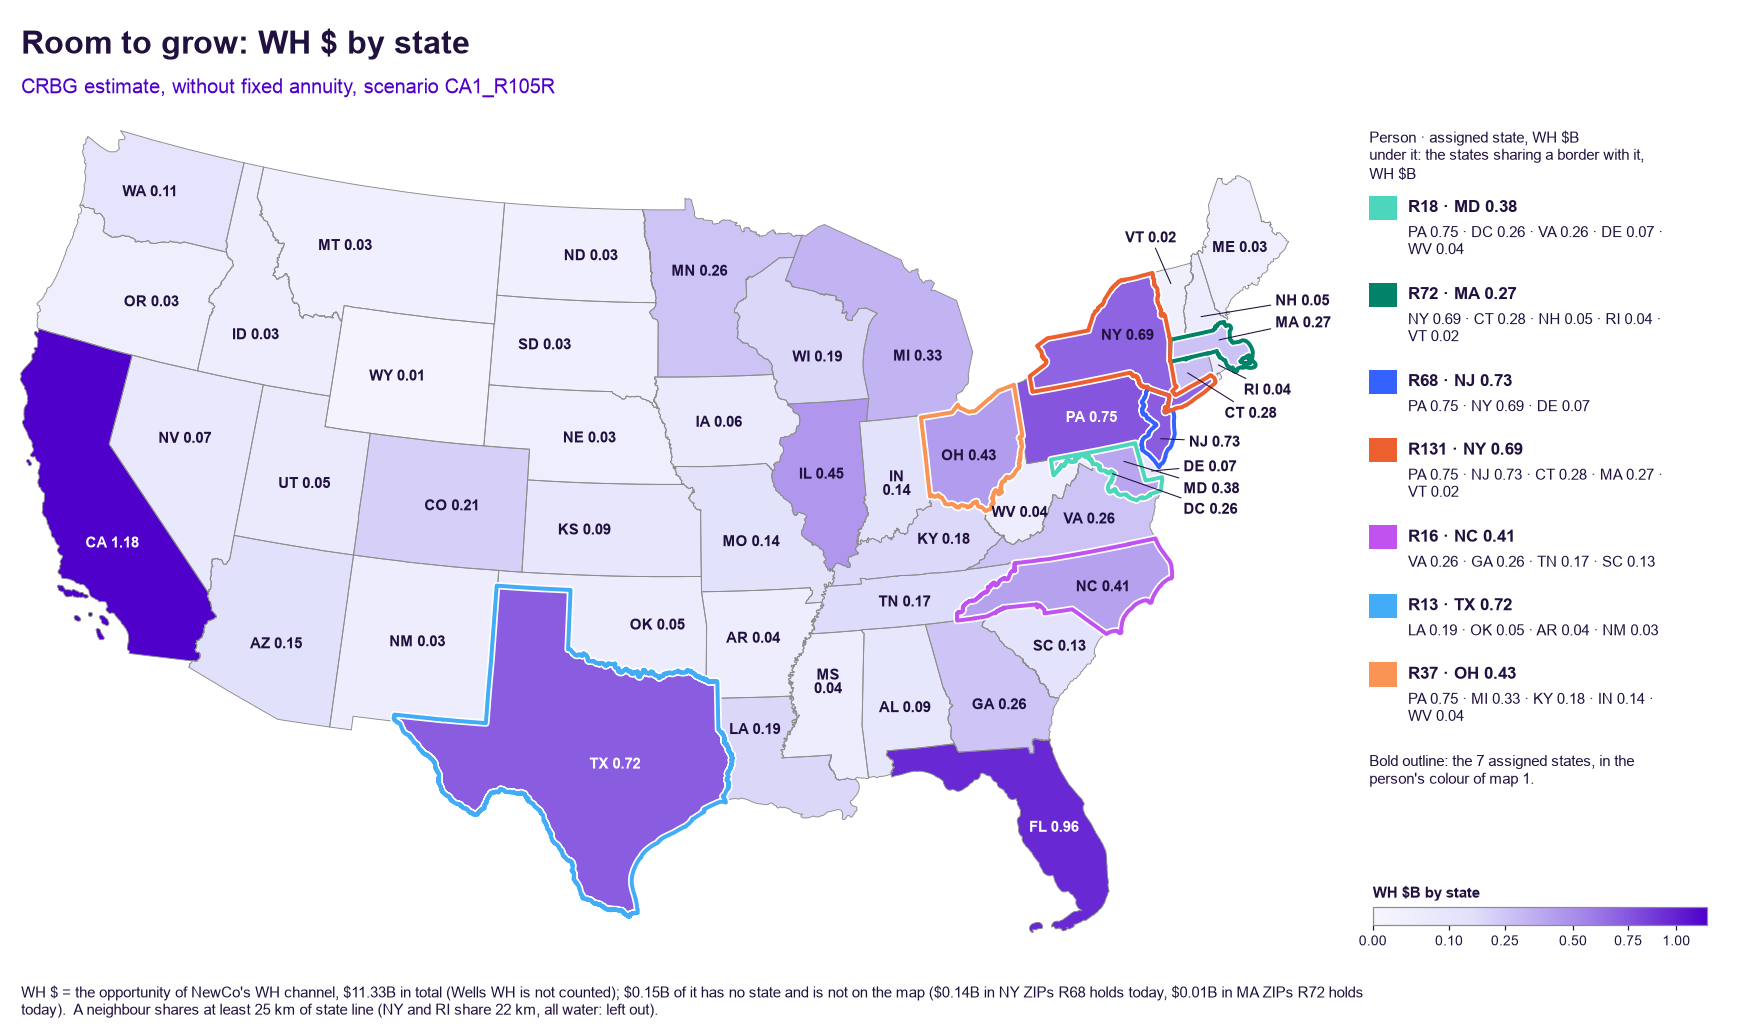
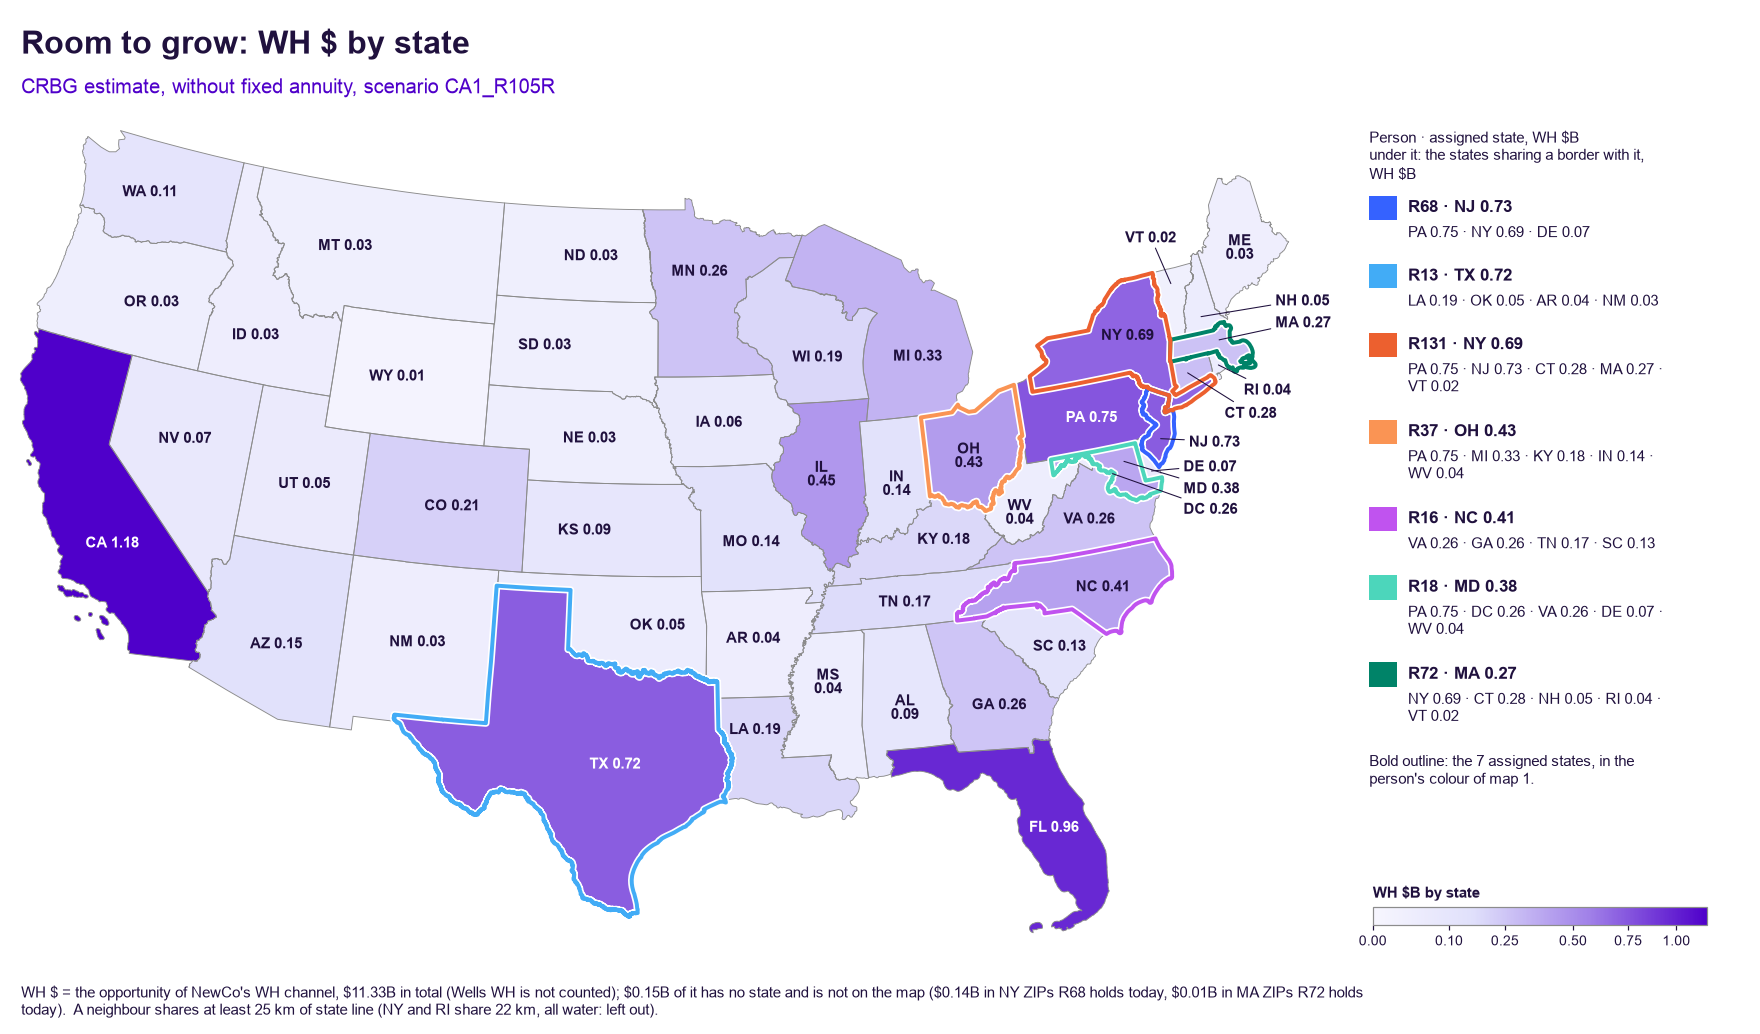
WH maps: today, room to grow, whole-state sketch, the Northeast (2026-11-24 run)
tools/maps/wh_maps.py draws the four PNGs from the owner's run without FIXED
(scenario CA1_R105R, CRBG estimate, WH $ = gap_cell NEW_DIST WH), keys only.
docs/RESULTS.md: the dated entry with the figures' numbers.

Agent: designer (claude-fable-5-2)

diff --git a/tools/maps/wh_maps.py b/tools/maps/wh_maps.py
@@ -48,17 +48,18 @@ GROUPS = [("R18", "MD DC DE VA"), ("R16", "NC SC GA TN"), ("R37", "OH IN KY MI W
 NEW = {"new A": "#BDBDBD", "new B": "#EBEBEB", "new C": "#A6A6A6", "new D": "#D2D2D2"}
 DPI = 110                                        # 16 in wide: 1760 px
 BOX = (-2.41e6, 0.20e6, 2.50e6, 3.22e6)          # CONUS, with room in the Atlantic for the small states' labels
-NE_BOX = (1.10e6, 1.88e6, 2.36e6, 3.04e6)        # NJ NY PA and New England
+NE_BOX = (1.17e6, 1.88e6, 2.36e6, 3.04e6)        # NJ NY PA and New England
 NYC_BOX = (1.795e6, 2.150e6, 1.880e6, 2.218e6)
 # hand-set label places, EPSG:5070 metres: (the label's centre, the point its leader ends at or None)
 AT1 = {"R68": ((1.60e6, 2.15e6), None), "R13": ((-0.25e6, 1.28e6), None), "R131": ((2.15e6, 2.08e6), (1.93e6, 2.21e6)),
        "R37": ((1.08e6, 2.00e6), None), "R16": ((1.47e6, 1.52e6), None), "R18": ((2.03e6, 1.79e6), (1.68e6, 1.94e6)),
        "R72": ((2.07e6, 2.80e6), None)}
-AT3 = {"R18": ((2.06e6, 1.76e6), (1.56e6, 1.77e6)), "R16": ((1.25e6, 1.39e6), None), "R37": ((0.98e6, 1.96e6), None),
-       "R13": ((-0.25e6, 1.05e6), None), "R68 · R131 · R72": ((1.62e6, 2.37e6), None), "new A": ((0.78e6, 1.03e6), None),
+AT3 = {"R18": ((2.06e6, 1.76e6), (1.60e6, 1.80e6)), "R16": ((1.25e6, 1.39e6), None), "R37": ((0.95e6, 2.16e6), None),
+       "R13": ((-0.25e6, 1.05e6), None), "R68 · R131 · R72": ((1.52e6, 2.84e6), (1.60e6, 2.42e6)), "new A": ((0.78e6, 1.03e6), None),
        "new B": ((0.02e6, 2.15e6), None), "new C": ((-2.03e6, 1.80e6), None), "new D": ((-1.30e6, 2.22e6), None)}
 AT4 = {"R68": ((1.62e6, 2.13e6), None), "R131": ((2.08e6, 2.11e6), (1.93e6, 2.215e6)), "R72": ((2.09e6, 2.78e6), None),
-       "R18": ((1.50e6, 1.93e6), None), "R37": ((1.19e6, 2.08e6), None)}
+       "R18": ((1.50e6, 1.93e6), None), "R37": ((1.235e6, 2.05e6), None)}
+AT_NYC = {"R68": ("Manhattan", (1.810e6, 2.207e6), (1.8275e6, 2.192e6)), "R131": ("Long Island", (1.862e6, 2.193e6), None)}   # the inset
 OFF2 = {"VT": (1.76e6, 2.79e6, "center"), "NH": (2.215e6, 2.56e6, "left"), "MA": (2.215e6, 2.48e6, "left"),
         "RI": (2.10e6, 2.235e6, "left"), "CT": (2.03e6, 2.15e6, "left"), "NJ": (1.90e6, 2.045e6, "left"),
         "DE": (1.88e6, 1.955e6, "left"), "MD": (1.88e6, 1.875e6, "left"), "DC": (1.88e6, 1.80e6, "left")}   # map 2: set off the state
@@ -67,6 +68,11 @@ CODE_NEAR = [(dx, dy, "center", "center") for dx, dy in ((0, 0), (0, -13), (0, 1
 
 def b(usd):
     return f"{usd / 1e9:.2f}"
+
+
+def dots(items, width):
+    """The items joined by ' · ' and wrapped to `width`, never inside an item."""
+    return textwrap.fill(" · ".join(i.replace(" ", "\u00a0") for i in items), width)
 
 
 def read(data):
@@ -157,8 +163,9 @@ def bold(ax, g, colour):
 
 
 def codes(ax, geo, avoid=()):
-    """Every state's code at its label point, moved off `avoid` and off each other; a crowded-out one is set anyway."""
-    items = [(p.x, p.y, s) for s, p in sorted(geo.state_pt.items())]
+    """Every state's code at its label point, moved off `avoid` and off each other (the largest states first, so the small ones
+    move); a crowded-out one is set anyway."""
+    items = [(geo.state_pt[s].x, geo.state_pt[s].y, s) for s in sorted(geo.states, key=lambda s: -geo.states[s].area)]
     style = dict(color=DARK, alpha=0.75, fontweight="bold")
     done = {t.get_text() for t in look.place_labels(ax, items, fs=9, avoid=avoid, marker=False, near=CODE_NEAR, leader=[], **style)}
     for x, y, s in items:
@@ -222,9 +229,9 @@ def today_label(d, p):
 
 
 def by_state(d, p, zips=False):
-    """'PA 0.55 · NY 0.38 · NJ 0.33': the person's $ today by state held, largest first."""
+    """['PA 0.54', 'NY 0.38', 'NJ 0.33']: the person's $ today by state held, largest first."""
     rows = sorted(d.today[p].items(), key=lambda kv: -d.sum(kv[1]))
-    return " · ".join(f"{s} {len(zs):,} ZIPs ${b(d.sum(zs))}B" if zips else f"{s} {b(d.sum(zs))}" for s, zs in rows)
+    return [f"{s} {len(zs):,} ZIPs ${b(d.sum(zs))}B" if zips else f"{s} {b(d.sum(zs))}" for s, zs in rows]
 
 
 def overlap_note(d):
@@ -263,7 +270,7 @@ def map_today(geo, d, out):
     codes(ax, geo, labels)
     y = note(fig, 0.875, "Key · WH $ today · preliminary-assignment state\nunder it: the $B today by state held")
     for p in COLOUR:
-        y = key(fig, y - 0.008, [COLOUR[p]], today_label(d, p), textwrap.fill(by_state(d, p), 40))
+        y = key(fig, y - 0.008, [COLOUR[p]], today_label(d, p), dots(by_state(d, p), 40))
     y = note(fig, y, "Bold outline: the person's preliminary-assignment state, in their colour.  White: every other ZIP.")
     note(fig, y, overlap_note(d))
     foot(fig, WH_NOTE.format(b(d.total)) + no_shape_note(geo, d, COLOUR))
@@ -287,13 +294,14 @@ def map_room(geo, d, out):
                         arrowprops=dict(arrowstyle="-", color=DARK, linewidth=0.7, shrinkA=1, shrinkB=0), **style)
         else:
             dark = float(np.dot(shade[s][:3], (0.2126, 0.7152, 0.0722))) < 0.45
-            ax.text(pt.x, pt.y, f"{s} {v}" if g.bounds[2] - g.bounds[0] > 3.3e5 else f"{s}\n{v}", ha="center",
+            ax.text(pt.x, pt.y, f"{s} {v}" if g.bounds[2] - g.bounds[0] > 4e5 else f"{s}\n{v}", ha="center",
                     color="white" if dark else DARK, **style)
     y = note(fig, 0.875, "Person · assigned state, WH $B\nunder it: the states sharing a border with it, WH $B")
-    for p, s in d.assigned.items():
+    for p in COLOUR:
+        s = d.assigned[p]
         near = sorted(neighbours(geo, s), key=lambda o: -d.state[o])
         y = key(fig, y - 0.008, [COLOUR[p]], f"{p} · {s} {b(d.state[s])}",
-                textwrap.fill(" · ".join(f"{o} {b(d.state[o])}" for o in near), 40))
+                dots([f"{o} {b(d.state[o])}" for o in near], 40))
     note(fig, y, "Bold outline: the 7 assigned states, in the person's colour of map 1.")
     cax = fig.add_axes((0.78, 0.105, 0.19, 0.018))
     bar = fig.colorbar(ScalarMappable(norm, RAMP), cax=cax, orientation="horizontal", ticks=[0, 0.1, 0.25, 0.5, 0.75, 1.0])
@@ -318,7 +326,7 @@ def map_sketch(geo, d, out):
         draw(ax, [g], facecolor="none", edgecolor=DARK, linewidth=1.9, zorder=4, joinstyle="round")
         text = (f"{name}: ${b(usd[name])}B,\nabout ${b(usd[name] / len(people))}B each" if len(people) > 1 else f"{name} · ${b(usd[name])}B")
         labels.append(callout(ax, text, *AT3[name]))
-        rows.append((cols, f"{name} · ${b(usd[name])}B", textwrap.fill(" · ".join(f"{s} {b(d.state[s])}" for s in states), 40)))
+        rows.append((cols, f"{name} · ${b(usd[name])}B", dots([f"{s} {b(d.state[s])}" for s in states], 40)))
     state_lines(ax, geo)
     codes(ax, geo, labels)
     y = note(fig, 0.875, "Group · WH $B, under it its states' WH $B\nstriped: shared by the three; grey: a new territory")
@@ -334,25 +342,32 @@ def map_sketch(geo, d, out):
 
 def map_northeast(geo, d, out):
     trio = ("R68", "R131", "R72")
-    fig, ax = page("WH today in the Northeast: where R68, R131 and R72 hold WH territory", NE_BOX, (16, 11), (0.004, 0.05, 0.655, 0.835))
+    fig, ax = page("WH today in the Northeast: where R68, R131 and R72 hold WH territory", NE_BOX, (16, 11), (0.004, 0.06, 0.61, 0.825))
     territories(ax, geo, d, edge="white")
     labels = [callout(ax, f"{p}\n${b(d.sum(d.zips[p]))}B", *AT4[p], colour=COLOUR[p], fs=12.5) for p in AT4]
     codes(ax, geo, labels)
     x0, y0, x1, y1 = NYC_BOX
     ax.add_patch(Rectangle((x0, y0), x1 - x0, y1 - y0, fill=False, edgecolor=DARK, linewidth=1.3, zorder=8))
-    x = 0.672
-    y = note(fig, 0.875, "Key · WH $ today · preliminary-assignment state\nunder it: the ZIPs and $ today by state held", x, 70)
+    x = 0.625
+    y = note(fig, 0.875, "Key · WH $ today · preliminary-assignment state\nunder it: the ZIPs and $ today by state held", x, 80)
     for p in trio:
-        y = key(fig, y - 0.006, [COLOUR[p]], today_label(d, p), textwrap.fill(by_state(d, p, zips=True), 62), x, 12)
+        y = key(fig, y - 0.006, [COLOUR[p]], today_label(d, p), dots(by_state(d, p, zips=True), 66), x, 12)
     for p in AT4:
         if p not in trio:
             y = key(fig, y - 0.002, [COLOUR[p]], today_label(d, p) + " (in part on this map)", "", x, 10.5)
-    y = note(fig, y - 0.004, "Each ZIP is drawn with its outline.  Bold outline: the person's preliminary-assignment state, in their colour.  "
-             "White: every other ZIP.\n" + overlap_note(d), x, 70)
-    ins = axes(fig, (x, 0.055, 0.315, 0.38), NYC_BOX)
+    note(fig, y - 0.004, "Each ZIP is drawn with its outline.  Bold outline: the person's preliminary-assignment state, in their colour.  "
+         "White: every other ZIP.\n" + overlap_note(d), x, 80)
+    ins = axes(fig, (x, 0.05, 0.36, 0.345), NYC_BOX)
     territories(ins, geo, d, edge="white")
     ins.add_patch(Rectangle((x0, y0), x1 - x0, y1 - y0, fill=False, edgecolor=DARK, linewidth=2.2, zorder=8, clip_on=False))
-    fig.text(x, 0.445, "New York City (the box on the map): R68 holds Manhattan, ZIPs 100xx to 102xx", fontsize=11.5, fontweight="bold", color=DARK, va="bottom")
+    zip3 = {p: sorted({z[:3] for z in d.today[p]["NY"]}) for p in AT_NYC}
+    assert zip3 == {"R68": ["100", "101", "102"], "R131": ["110", "115", "117", "118", "119"]}, zip3   # what AT_NYC's place names rest on
+    for p, (place, at, to) in AT_NYC.items():
+        zs = d.today[p]["NY"]
+        callout(ins, f"{p} · {place}\n{len(zs):,} ZIPs, ${b(d.sum(zs))}B", at, to, COLOUR[p], 10.5)
+    fig.text(x, 0.428, "New York City (the box on the map)", fontsize=11.5, fontweight="bold", color=DARK, va="bottom")
+    fig.text(x, 0.405, "NY ZIPs held, by their first three digits: " + "; ".join(f"{p} {' '.join(v)}" for p, v in zip3.items()) + ".",
+             fontsize=9.5, color=DARK, va="bottom")
     foot(fig, WH_NOTE.format(b(d.total)) + no_shape_note(geo, d, trio))
     save(fig, out, "wh_4_northeast")
 
@@ -360,7 +375,7 @@ def map_northeast(geo, d, out):
 def report(d, groups):
     """The numbers the figures show, as text."""
     out = [f"WH ${b(d.total)}B total; no state ${b(d.state[''])}B", "person  assigned  $B today  ZIPs  by state"]
-    out += [f"{p:<7} {d.assigned[p]:<9} {b(d.sum(d.zips[p])):<9} {len(d.zips[p]):<5} {by_state(d, p)}" for p in COLOUR]
+    out += [f"{p:<7} {d.assigned[p]:<9} {b(d.sum(d.zips[p])):<9} {len(d.zips[p]):<5} {' · '.join(by_state(d, p))}" for p in COLOUR]
     out += ["group: $B = states"] + [f"{name}: {b(groups[name])} = {states}" for name, states in GROUPS]
     out += ["state $B: " + " ".join(f"{s} {b(v)}" for s, v in sorted(d.state.items(), key=lambda kv: -kv[1]) if s)]
     return "\n".join(out)

diff --git a/docs/RESULTS.md b/docs/RESULTS.md
@@ -1392,3 +1392,36 @@ Open-seat plan 1 (`seat_plan.csv`, both estimates alike): CA1_R105N re-adds R36 
 R18 DC, R138 WV, R51 IA, R163 KS, R174 NE; CA1_R105R (TX not open) re-adds R36, R59, R143 and R24 for IA KS NE and
 extends R18 DC, R138 WV. Draft rebuilt on this run in `results/draft/2026-11-19-exfixed/`: NATIONAL and WH all one piece,
 WIFI 26 of 27 (R2's NV), R14 NC and R33 WI hold nothing in their state; $0.35B in ZIPs that are not ZCTAs.
+
+## 2026-11-24: WH: today and room to grow
+
+`tools/maps/wh_maps.py` on the owner's 2026-11-24 run without FIXED (`data/safe/wh_2026-11-24/`, keys only): scenario
+CA1_R105R, CRBG estimate, WH $ = `MM_OPP` of the `gap_cell.csv` rows with `NEW_DIST` WH (NewCo's WH channel; Wells WH is
+not counted). Total $11.33B, of which $0.15B has no state: $0.14B in NY ZIPs R68 holds today (Manhattan, 100xx to 102xx,
+not ZCTAs) and $0.01B in MA ZIPs R72 holds. A person's $ today is the WH $ in the ZIPs of their `territory_today.csv`
+rows with `TERR_CHANNEL` WH, by state as that file has it. Shapes: 2025 TIGER, as `dashboard.py --dev`.
+Regenerate: `"$TD_PY" tools/maps/wh_maps.py`.
+
+Figure: [WH today, the 7 shortlisted](figures/2026-11-24_wh_1_today.png). $B today, by state held, and the assigned state:
+R68 1.25 (PA 0.54, NY 0.38, NJ 0.33; NJ), R13 0.37 (TX 0.32, OK 0.05; TX), R131 0.25 (NY; NY), R37 0.75 (OH 0.43, KY 0.18,
+IN 0.13; OH), R16 0.74 (NC 0.41, SC 0.13, VA 0.10, TN 0.10; NC), R18 0.88 (MD 0.38, DC 0.26, VA 0.16, DE 0.07; MD), R72
+0.69 (MA 0.28, CT 0.28, NH 0.05, RI 0.04, ME 0.03, VT 0.02; MA). No ZIP is in two of the 7's WH territories. In NY,
+assigned to R131, R68 holds 165 ZIPs, $0.38B, and R131 220 ZIPs, $0.25B.
+
+Figure: [room to grow, WH $ by state](figures/2026-11-24_wh_2_room_to_grow.png). The largest: CA 1.18, FL 0.96, PA 0.75,
+NJ 0.73, TX 0.72, NY 0.69, IL 0.45, OH 0.43, NC 0.41, MD 0.38. Assigned state, then the states sharing at least 25 km of
+state line with it: R68 NJ 0.73 (PA 0.75, NY 0.69, DE 0.07); R13 TX 0.72 (LA 0.19, OK 0.05, AR 0.04, NM 0.03); R131 NY
+0.69 (PA 0.75, NJ 0.73, CT 0.28, MA 0.27, VT 0.02); R37 OH 0.43 (PA 0.75, MI 0.33, KY 0.18, IN 0.14, WV 0.04); R16 NC 0.41
+(VA 0.26, GA 0.26, TN 0.17, SC 0.13); R18 MD 0.38 (PA 0.75, DC 0.26, VA 0.26, DE 0.07, WV 0.04); R72 MA 0.27 (NY 0.69,
+CT 0.28, NH 0.05, RI 0.04, VT 0.02).
+
+Figure: [whole-state sketch, 11 territories](figures/2026-11-24_wh_3_sketch.png), the owner's groups: R18 (MD DC DE VA)
+0.98; R16 (NC SC GA TN) 0.96; R37 (OH IN KY MI WV) 1.12, 1.08 without WV; R13 (TX OK LA AR) 0.99; the Northeast shared by
+R68, R131 and R72 (NJ NY PA MA CT RI NH ME VT) 2.85, about 0.95 each; new A (FL AL MS) 1.09; new B (IL MN WI MO IA KS NE
+ND SD) 1.28; new C (CA) 1.18; new D (AZ CO WA NV UT OR ID NM MT WY) 0.73; no state 0.15; in all 11.33. Whole-state
+arithmetic on the $ by state, not a solve: nothing is drawn at ZIP level and nothing was audited.
+
+Figure: [the Northeast at ZIP level](figures/2026-11-24_wh_4_northeast.png): R68 holds the east of PA (53% of the state's
+ZCTA area), the south of NJ (58%) and Manhattan; R131 holds Long Island (NY ZIPs 110xx, 115xx, 117xx to 119xx); R72 holds New England. R68 PA 1,260 ZIPs $0.54B,
+NY 165 $0.38B, NJ 347 $0.33B; R131 NY 220 $0.25B; R72 MA 703 $0.28B, CT 438 $0.28B, NH 284 $0.05B, RI 91 $0.04B, ME 488
+$0.03B, VT 309 $0.02B. ZIPs that are not ZCTAs are counted, not drawn: R68 $0.14B, R72 $0.01B.
